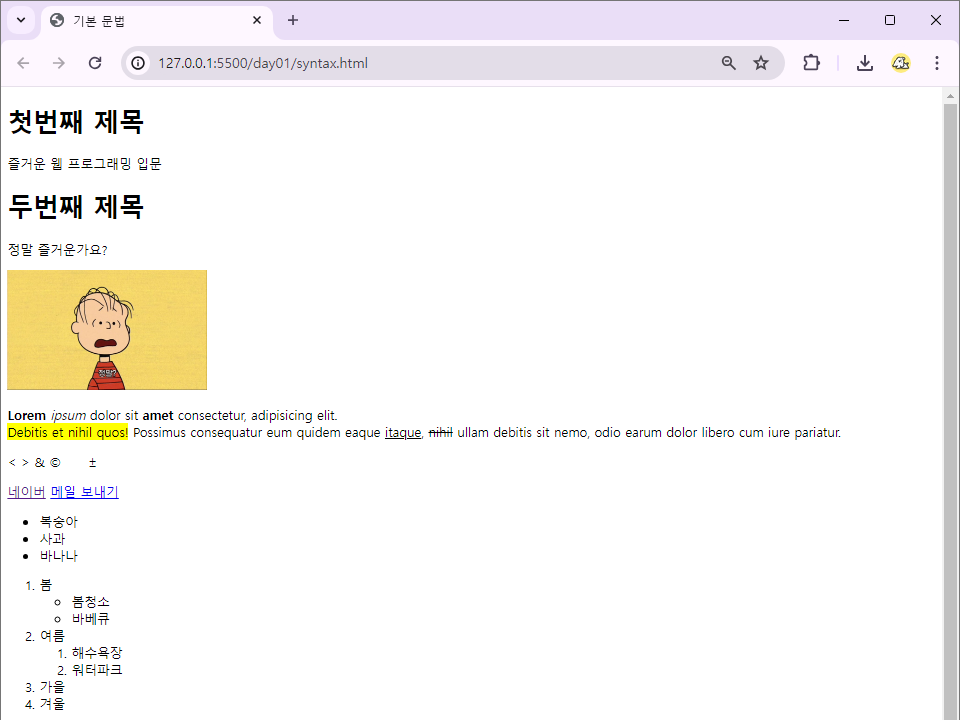
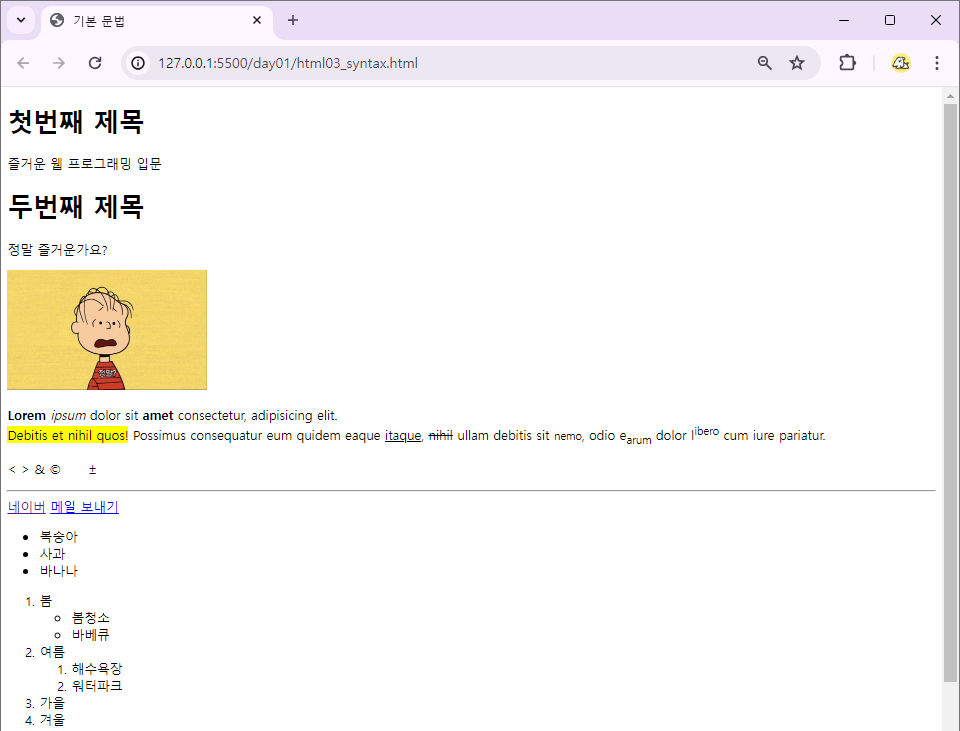
리드미 분할

diff --git a/day01/html03_syntax.html b/day01/html03_syntax.html
@@ -17,8 +17,11 @@
     </div>
 
     <p><b>Lorem</b> <em>ipsum</em> dolor sit <strong>amet</strong> consectetur, adipisicing elit.<br> 
-        <mark>Debitis et nihil quos!</mark> Possimus consequatur eum quidem eaque <u>itaque</u>, <strike>nihil</strike> ullam debitis sit nemo, odio earum dolor libero cum iure pariatur.</p>
+        <mark>Debitis et nihil quos!</mark> Possimus consequatur eum quidem eaque <u>itaque</u>, <strike>nihil</strike> ullam debitis sit <small>nemo</small>, 
+        odio e<sub>arum</sub> dolor l<sup>ibero</sup> cum iure pariatur.</p>
     <p>&lt; &gt; &amp; &copy;&nbsp;&nbsp;&nbsp;&nbsp;&nbsp; &plusmn; </p>
+
+    <hr> <!-- 가로선 -->
     <!-- HTML에서 가장 중요한 태그. 링크태그 target _blank(새창), _self(현재페이지) -->
     <a href="https://www.naver.com">네이버</a>
     <a href="mailto:person@naver.com">메일 보내기</a>

diff --git a/day01/html02_snippet.html b/day01/html02_snippet.html
@@ -14,9 +14,9 @@
         <!-- 웹브라우저 탭에 나오는 부분(제목) -->
         <meta name='viewport' content='width=device-width, initial-scale=1'>
         <!-- 응답형웹(Responsive Web)을 선언 -->
-        <link rel='stylesheet' type='text/css' media='screen' href='main.css'>
+        <!-- <link rel='stylesheet' type='text/css' media='screen' href='main.css'> -->
         <!-- CSS 디자인을 다른파일(main.css)에 지정. 현재 main.css 없음. 오류는 X -->
-        <script src='main.js'></script>
+        <!-- <script src='main.js'></script> -->
         <!-- javascript도 다른파일(main.css)에 지정. 현재 main.css 없음. 오류는 X -->
     </head>
     <body>

diff --git a/README.md b/README.md
@@ -1,7 +1,7 @@
 # basic-aspnet-2024
 부경대 2024 IoT 개발자과정 ASP.NET  리포지토리
 
-## 1일차 (24.05.29)
+## [1일차 (24.05.29)](https://github.com/HyungJuu/basic-aspnet-2024/blob/main/day01.md)
 - 웹기술 개요
     - World Wide Web : 인터넷의 하나의 파트
     - Full-Stack
@@ -11,118 +11,5 @@
 
 - [업무용 웹 사이트 참조](https://www.ecount.com/kr/ECK/ECK004M_CN.aspx)
 
-- Front-end(프론트엔드, 클라이언트)
-    - HTML5
-    - CSS3
-    - Javascript
-
-- Back-end(백엔드)
-    - 주로 사용
-        1. Java : Spring, Spring Boot, JSP, EJB ...
-        2. Javascript : Node.js, Express ...
-        3. Python : Django, Flask, fastAPI ...
-        4. C# : ASP.NET (NVC, Boilerplate..)
-    - 잘 사용하지 않음
-        5. Ruby : Ruby on rails
-        6. C : cgi, fastCGI ...
-        7. PHP
-
-- 개발 시 사용하는 것
-    - 프론트엔드 전부 + 백엔드 중 하나 + DB
-    - 웹 브라우저 F12(개발자도구)
-    - VS Code 플러그인
-        - HTML Code Snippet
-        - Live Server
-
-- HTML5
-    - XML : 웹페이지를 구성하기 위한 선행기술 &rarr; 너무 복잡해서 간략화 시킨것
-    - Hyper Text Markup Language
-    - 기본적으로 확장자  &rarr; .html
-    - **tip!** lorem 탭, 긴 샘플텍스트 생성
-    - 요소(body)
-        - h1 ~ h6 : 제목 &rarr; 마크다운의 (#,##)제목 기능과 동일
-        - p : 일반문장
-        - div : 그룹핑(그룹화) 구분자, 아주 중요(CSS 연계 디자인)
-        - img : 이미지 표현
-        - br : 다음줄로 내리기(엔터)
-        - 특수문자 : &(영문자); 형식으로 표시(종류가 많음)
-
-            ```
-            &lt; : <
-            &gt; : >
-            &amp; : &
-            &copy; : ©
-            &plusmn; : ±
-            &nbsp; : 공백
-            ```
-
-        - strong 또는 b : 볼드체
-        - em : 이탤릭체(기울임)
-        - mark : 형광펜 효과(강조)
-        - u : 밑줄
-        - strike : 취소선
-        - **a : 웹페이지 링크(중요)**
-        - ul, ol ; 순서없는 목록 | 순번있는 목록
-        - table, tr, th, td : 테이블을 만드는 태그
-            - colspan : 테이블 열 병합(좌우)
-            - rowspan : 테이블 행 병합(상하)
-        - audio, video : [오디오](https://file-examples.com/index.php/sample-audio-files/sample-mp3-download/), [비디오](https://samplelib.com/sample-mp4.html) 샘플 추가
-        - object,  embed : 객체 추가
-
-        ![기본요소1](https://raw.githubusercontent.com/HyungJuu/basic-aspnet-2024/main/images/html001.png)
-
-        ![기본요소2](https://raw.githubusercontent.com/HyungJuu/basic-aspnet-2024/main/images/html002.png)
-
-- HTML 내에 스타일, 스크립트 적용방법
-    - HTML + CSS + Javascript
-        - 내부 스타일, 외부 스타일, 인라인 스타일
-
-        ```html
-        <head>
-            <style>
-                /* CSS를 HTML 내부에 적용하는 방법 */
-                /* h1에 모두 적용됨 */
-                h1 {
-                    color: white;
-                    background-color: darkcyan;
-                }
-            </style>
-            <link rel="stylesheet" type="text/css" media="screen" href="practice.css"> <!-- 외부링크 -->
-        </head>
-
-        <body>
-        <h1>HTML Start!!</h1>
-        <h2>Have fun~!!</h2>
-        <h1>Second Heading1</h1>
-        <h2 style="color: steelblue;">Second Heading2</h2> <!-- 지정시 전체설정과 다르게 따로 가능  -->
-        </body>
-        ```
-
-        ```css
-        h2 {
-            color: midnightblue;
-            background-color: mediumaquamarine;
-        }
-        ```
-
-        - 내부 스크립트, 외부 스크립트, 인라인 스크립트
-
-        ```html
-        <head>
-            <script>
-                /* 주석 */
-                /* 내부 스크립트. <script> 태그는 <body> 내에도 사용 가능 */
-                var name = prompt("이름을 입력하세요");
-                alert("나의 이름은 " + name); // Messagebox.Show()와 같음
-            </script>
-
-            <script src="practice.js"></script> <!-- 외부 스크립트 -->
-            <!-- 내부 스크립트 실행 후 외부 스크립트 실행됨 -->
-        </head>
-        ```
-
-        ```js
-        alert("from js file!!!");
-        ```
 
 ## 2일차 (24.05.30)

diff --git a/day01.md b/day01.md
@@ -1,0 +1,117 @@
+## 1일차 (24.05.29)
+- Front-end(프론트엔드, 클라이언트)
+    - HTML5
+    - CSS3
+    - Javascript
+
+- Back-end(백엔드)
+    - 주로 사용
+        1. Java : Spring, Spring Boot, JSP, EJB ...
+        2. Javascript : Node.js, Express ...
+        3. Python : Django, Flask, fastAPI ...
+        4. C# : ASP.NET (NVC, Boilerplate..)
+    - 잘 사용하지 않음
+        5. Ruby : Ruby on rails
+        6. C : cgi, fastCGI ...
+        7. PHP
+
+- 개발 시 사용하는 것
+    - 프론트엔드 전부 + 백엔드 중 하나 + DB
+    - 웹 브라우저 F12(개발자도구)
+    - VS Code 플러그인
+        - HTML Code Snippet
+        - Live Server
+
+- HTML5
+    - XML : 웹페이지를 구성하기 위한 선행기술 &rarr; 너무 복잡해서 간략화 시킨것
+    - Hyper Text Markup Language
+    - 기본적으로 확장자  &rarr; .html
+    - **tip!** lorem 탭, 긴 샘플텍스트 생성
+    - 요소(body)
+        - h1 ~ h6 : 제목 &rarr; 마크다운의 (#,##)제목 기능과 동일
+        - p : 일반문장
+        - div : 그룹핑(그룹화) 구분자, 아주 중요(CSS 연계 디자인)
+        - img : 이미지 표현
+        - br : 다음줄로 내리기(엔터)
+        - hr : 가로선
+        - 특수문자 : &(영문자); 형식으로 표시(종류가 많음)
+
+            ```
+            &lt; : <
+            &gt; : >
+            &amp; : &
+            &copy; : ©
+            &plusmn; : ±
+            &nbsp; : 공백
+            ```
+
+        - strong 또는 b : 볼드체
+        - em : 이탤릭체(기울임)
+        - mark : 형광펜 효과(강조)
+        - u : 밑줄
+        - strike : 취소선
+        - small : 작은글자
+        - sub, sup : 아래첨자 | 위첨자
+        - **a : 웹페이지 링크(중요)**
+        - ul, ol ; 순서없는 목록 | 순번있는 목록
+        - table, tr, th, td : 테이블을 만드는 태그
+            - colspan : 테이블 열 병합(좌우)
+            - rowspan : 테이블 행 병합(상하)
+        - audio, video : [오디오](https://file-examples.com/index.php/sample-audio-files/sample-mp3-download/), [비디오](https://samplelib.com/sample-mp4.html) 샘플 추가
+        - object,  embed : 객체 추가
+
+        ![기본요소1](https://raw.githubusercontent.com/HyungJuu/basic-aspnet-2024/main/images/html001.png)
+
+        ![기본요소2](https://raw.githubusercontent.com/HyungJuu/basic-aspnet-2024/main/images/html002.png)
+
+- HTML 내에 스타일, 스크립트 적용방법
+    - HTML + CSS + Javascript
+        - 내부 스타일, 외부 스타일, 인라인 스타일
+
+        ```html
+        <head>
+            <style>
+                /* CSS를 HTML 내부에 적용하는 방법 */
+                /* h1에 모두 적용됨 */
+                h1 {
+                    color: white;
+                    background-color: darkcyan;
+                }
+            </style>
+            <link rel="stylesheet" type="text/css" media="screen" href="practice.css"> <!-- 외부링크 -->
+        </head>
+
+        <body>
+        <h1>HTML Start!!</h1>
+        <h2>Have fun~!!</h2>
+        <h1>Second Heading1</h1>
+        <h2 style="color: steelblue;">Second Heading2</h2> <!-- 지정시 전체설정과 다르게 따로 가능  -->
+        </body>
+        ```
+
+        ```css
+        h2 {
+            color: midnightblue;
+            background-color: mediumaquamarine;
+        }
+        ```
+
+        - 내부 스크립트, 외부 스크립트, 인라인 스크립트
+
+        ```html
+        <head>
+            <script>
+                /* 주석 */
+                /* 내부 스크립트. <script> 태그는 <body> 내에도 사용 가능 */
+                var name = prompt("이름을 입력하세요");
+                alert("나의 이름은 " + name); // Messagebox.Show()와 같음
+            </script>
+
+            <script src="practice.js"></script> <!-- 외부 스크립트 -->
+            <!-- 내부 스크립트 실행 후 외부 스크립트 실행됨 -->
+        </head>
+        ```
+
+        ```js
+        alert("from js file!!!");
+        ```
